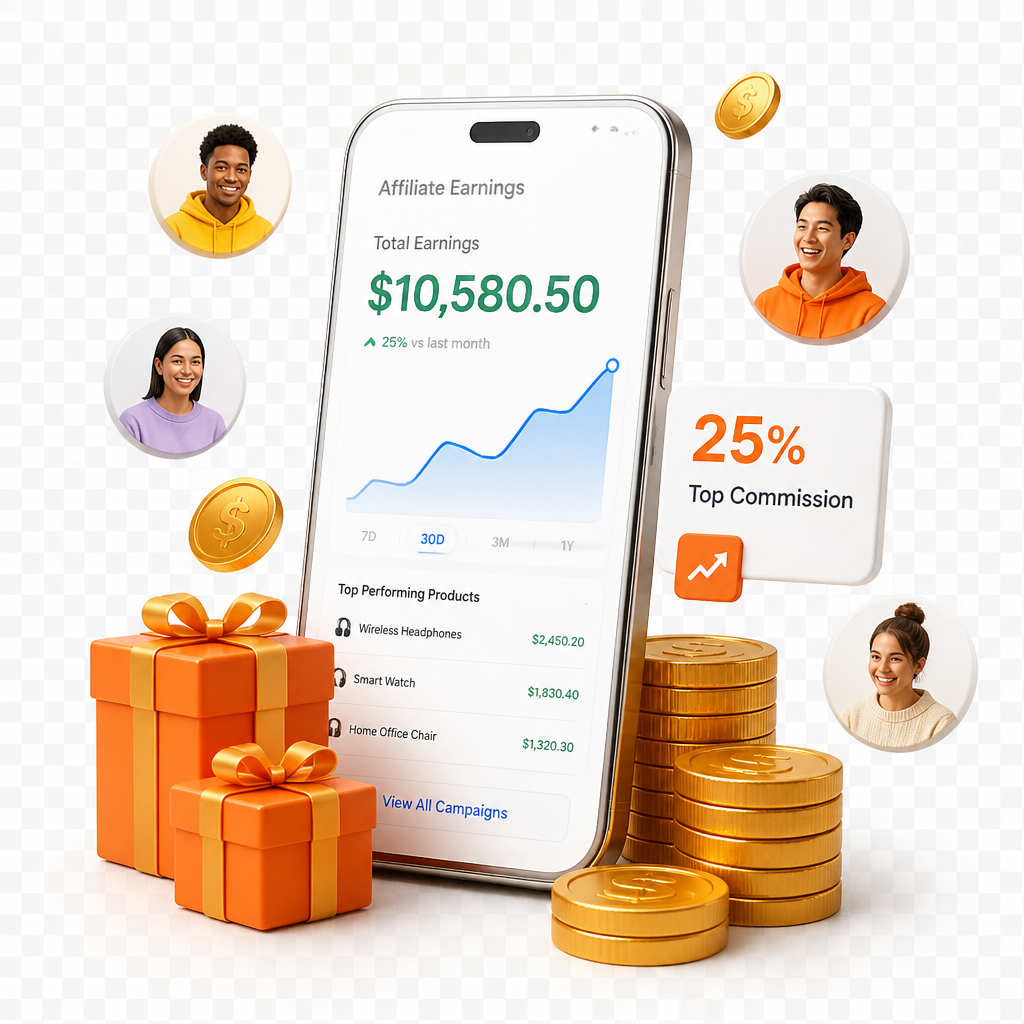
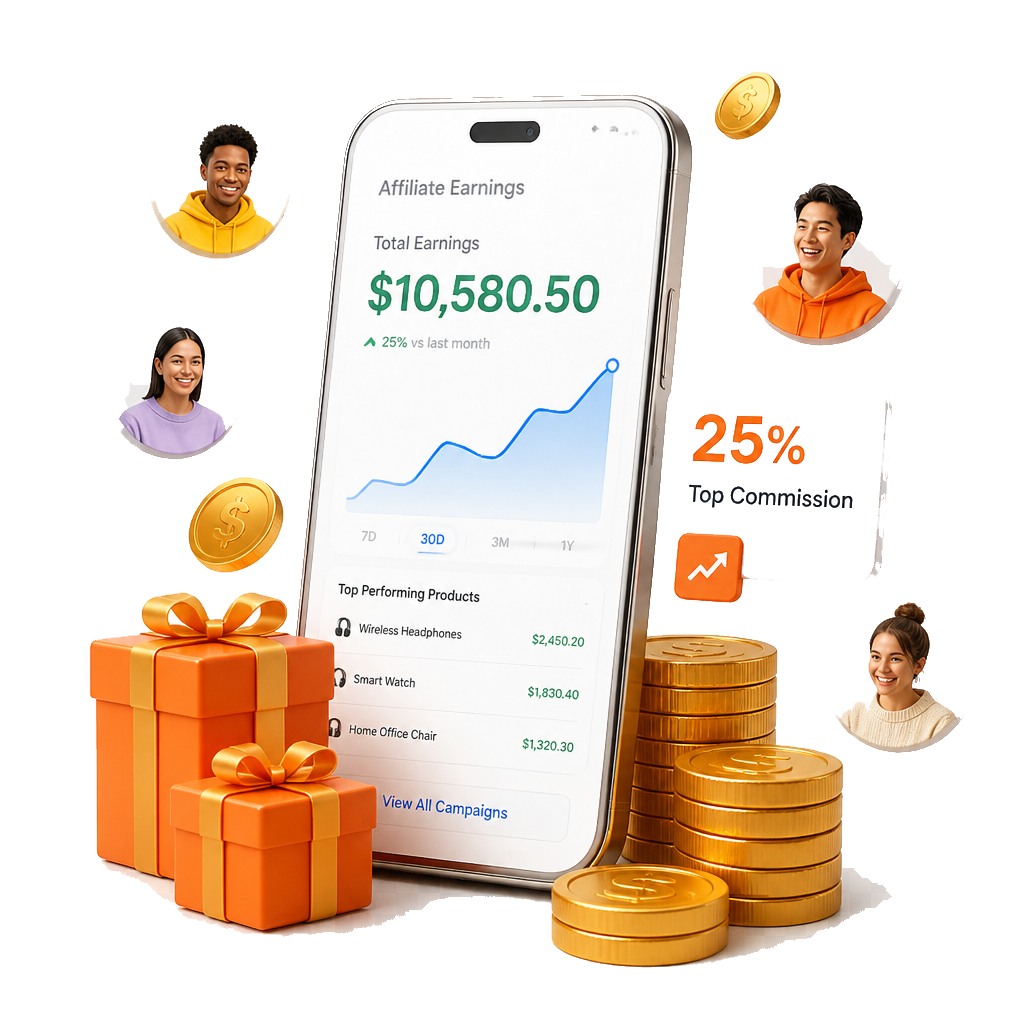
fix(affiliate): blend hero illustrations into section backgrounds

diff --git a/components/affiliate/sections/AffiliateBottomCta.tsx b/components/affiliate/sections/AffiliateBottomCta.tsx
@@ -54,7 +54,7 @@ export function AffiliateBottomCta({ primaryCtaHref }: AffiliateBottomCtaProps) 
               alt="Jimvio Affiliate Program — phone earnings, commission cards, coins and gifts"
               fill
               loading="lazy"
-              className="object-contain object-center drop-shadow-[0_12px_24px_rgba(255,90,31,0.22)]"
+              className="object-contain object-center mix-blend-multiply drop-shadow-[0_12px_24px_rgba(255,90,31,0.22)]"
               sizes="(max-width: 640px) 160px, 200px"
             />
           </div>

diff --git a/components/affiliate/sections/AffiliateHero.tsx b/components/affiliate/sections/AffiliateHero.tsx
@@ -233,7 +233,7 @@ export function AffiliateHero({ heroRate, primaryCtaHref }: AffiliateHeroProps) 
                 alt="Affiliate earnings on Jimvio — up to top commission rates"
                 fill
                 priority
-                className="object-contain object-center drop-shadow-[0_24px_48px_rgba(255,90,31,0.16)]"
+                className="object-contain object-center mix-blend-multiply drop-shadow-[0_24px_48px_rgba(255,90,31,0.16)]"
                 sizes="(max-width: 1024px) 90vw, 460px"
               />
             </div>
